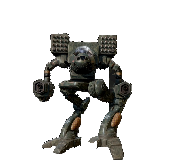
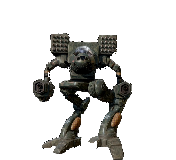
fix(timber-wolf): Clear under-arm Sketchfab plate on frontals (#330)

Changed region(s): [[0.5682, 0.4062, 0.7102, 0.5625], [0.625, 0.3125, 0.6818, 0.375], [0.2557, 0.4375, 0.2841, 0.5]]

diff --git a/crates/core/tests/character_packages.rs b/crates/core/tests/character_packages.rs
@@ -560,6 +560,82 @@ fn timber_wolf_declares_cursor_reactions() {
     );
 }
 
+/// Under-arm Sketchfab plate must not seal the crook: the desk shows through
+/// between torso and inner arm. Window is the left crook on front-facing
+/// frames (his right arm). Near-black opaque must not dominate that pocket.
+#[test]
+fn timber_wolf_underarm_crook_is_not_a_near_black_plate() {
+    let files = package_bytes("timber-wolf");
+    // Left under-arm pocket on the 176×160 frontals (idle / talk-2 / react / scan).
+    const X0: usize = 55;
+    const X1: usize = 72;
+    const Y0: usize = 70;
+    const Y1: usize = 86;
+
+    let frames = [
+        "frames/idle-0.png",
+        "frames/idle-1.png",
+        "frames/talk-2.png",
+        "frames/react-0.png",
+        "frames/react-1.png",
+        "frames/scan-1.png",
+        "frames/scan-2.png",
+        "frames/scan-3.png",
+    ];
+    for path in frames {
+        let bytes = files
+            .get(path)
+            .unwrap_or_else(|| panic!("{path} is in the package"));
+        let (width, height, rgba) = frame_rgba(bytes);
+        assert_eq!((width, height), (176, 160), "{path} stays on the TW canvas");
+
+        let mut transparent = 0usize;
+        let mut opaque = 0usize;
+        let mut near_black = 0usize;
+        for y in Y0..Y1 {
+            for x in X0..X1 {
+                let px = rgba[y * width + x];
+                if px[3] < 8 {
+                    transparent += 1;
+                    continue;
+                }
+                if px[3] < VISIBLE {
+                    continue;
+                }
+                opaque += 1;
+                let mx = px[0].max(px[1]).max(px[2]);
+                if mx <= 22 {
+                    near_black += 1;
+                }
+            }
+        }
+
+        assert!(
+            transparent >= 140,
+            "{path}: left under-arm crook must open to the desk (transparent={transparent}, want >= 140)"
+        );
+        assert!(
+            near_black * 2 <= opaque + transparent / 4,
+            "{path}: near-black opaque must not plate-fill the crook \
+             (near_black={near_black} opaque={opaque} transparent={transparent})"
+        );
+
+        // Outer gun column still solid — remat must not eat the hanging pod.
+        let mut outer = 0usize;
+        for y in 55..100 {
+            for x in 36..50 {
+                if rgba[y * width + x][3] >= VISIBLE {
+                    outer += 1;
+                }
+            }
+        }
+        assert!(
+            outer >= 140,
+            "{path}: left outer gun/arm column still solid (opaque={outer})"
+        );
+    }
+}
+
 /// Buddy Bot: logo mascot package loads with all nine required animations and
 /// the authored frame counts from the Grok Imagine pack.
 #[test]
